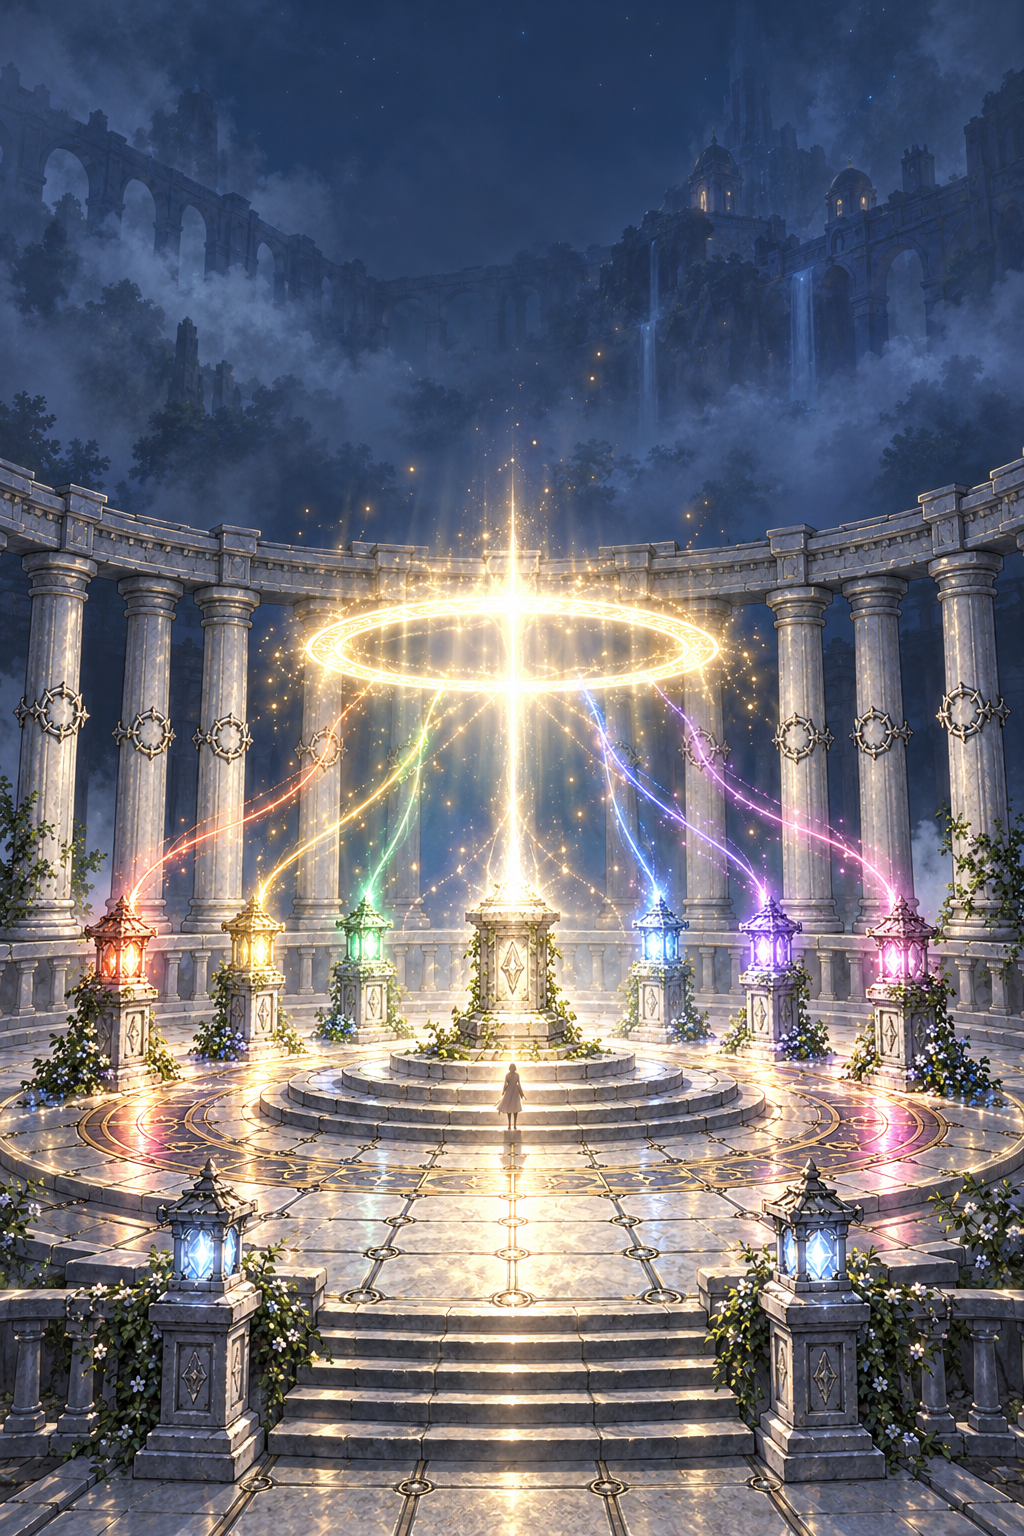
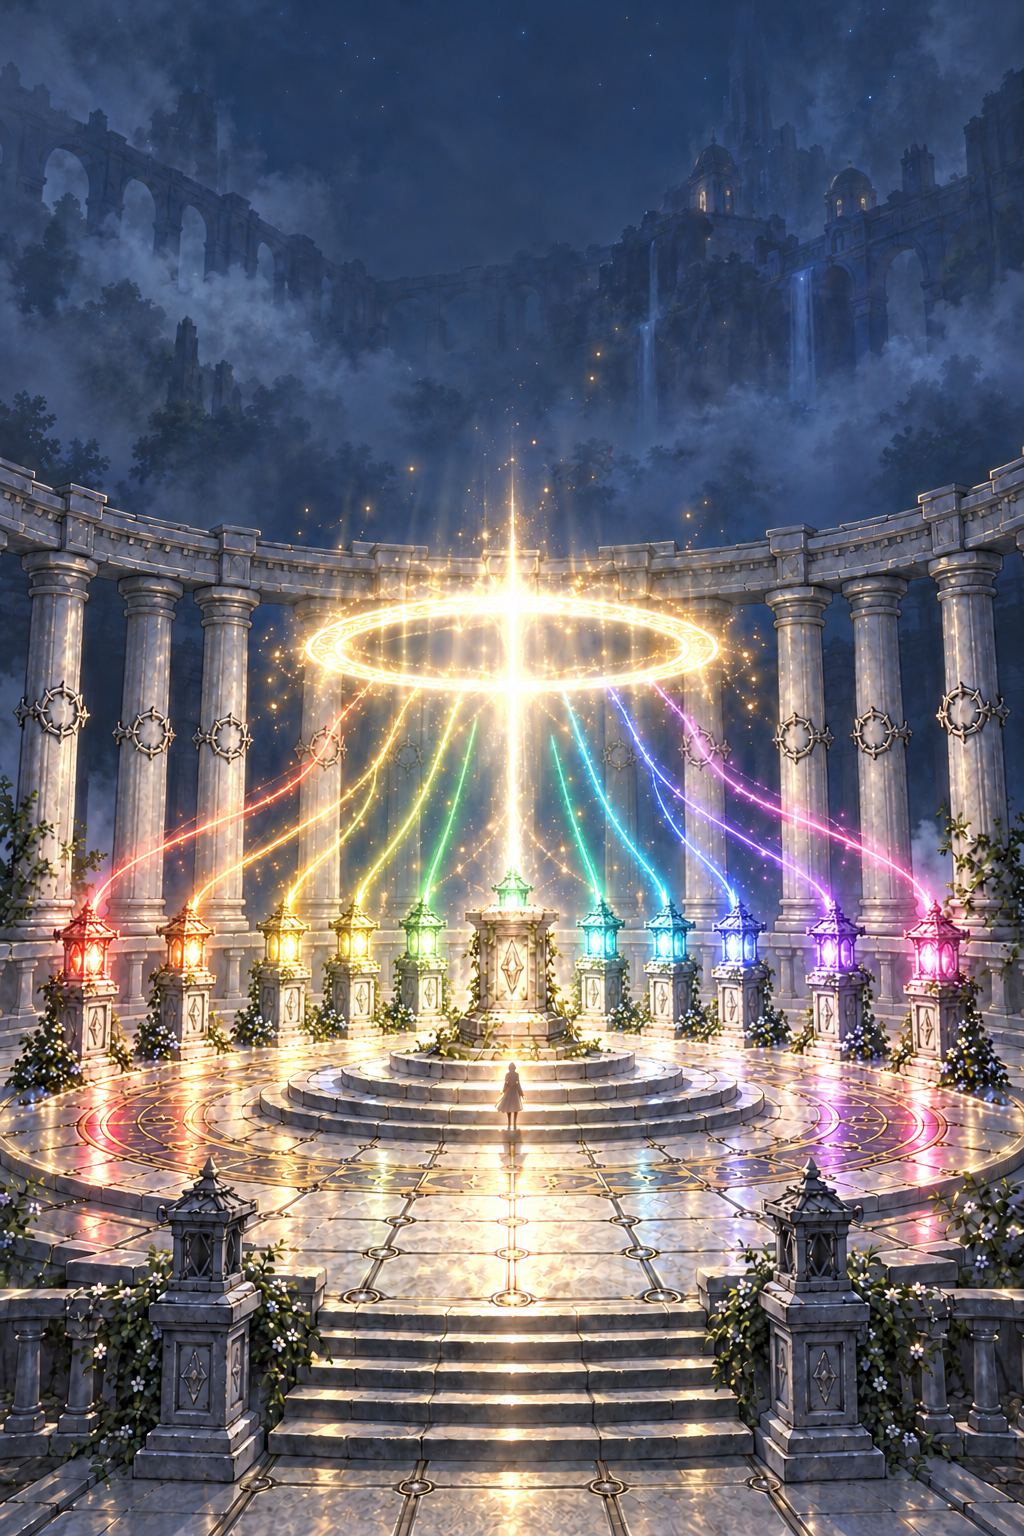
T R の検品の小さな直し・祭壇の挿絵の差しかえ
- 受付の出られない理由は1行に1つ（「 / 」でつながない。英語も同じ）
- ベッドは「寝る」「セーブ」「やめる」（ロードはなくした：セーブはいつも自動・バックアップからの復元は設定の画面だけ）
- 祭壇の挿絵を灯籠 11 の版に差しかえ（前の版は story_09_altar_seal_v1_7lights.png として残す。まだゲームには入れない）

Claude-Session: https://claude.ai/code/session_01GPUK2w1c9YDsNTKSZLLxHv

diff --git a/src/ui/screens/worldScreen.ts b/src/ui/screens/worldScreen.ts
@@ -2634,7 +2634,10 @@ export class WorldView {
     if (old) old.replaceWith(datePlate(this.#store.displayCalendar));
   }
 
-  /** 家のベッド（2026-10-30 指示書 R2）：寝る（1か月進む）・セーブ（これまでのベッドの画面）・ロード（バックアップから復元のある設定の画面） */
+  /**
+   * 家のベッド（2026-10-30 指示書 R2・T3）：寝る（1か月進む）・セーブ（これまでのベッドの画面）・やめる。
+   * セーブはいつも自動なので、ベッドに読み込みは置かない（バックアップからの復元は設定の画面だけ。2026-10-30 ユーザー決定）
+   */
   #bedMenu(): void {
     this.#busy = true;
     this.#held = null;
@@ -2646,7 +2649,6 @@ export class WorldView {
       actions: [
         { label: t('calendar.bed.sleep'), primary: true, onTap: () => ((next = () => this.#confirmSleep()), handle.close()) },
         { label: t('calendar.bed.save'), onTap: () => ((next = () => this.#ctx.navigate('settings')), handle.close()) },
-        { label: t('calendar.bed.load'), onTap: () => ((next = () => this.#ctx.navigate('options')), handle.close()) },
         { label: t('common.cancel'), onTap: () => handle.close() },
       ],
       onClose: () => {

diff --git a/src/i18n/messages/screens.ts b/src/i18n/messages/screens.ts
@@ -396,7 +396,6 @@ export const SCREENS = {
   },
   'tournament.record': { ja: '参加{entries}回・優勝{wins}回', en: 'Entered {entries} · Won {wins}' },
   'tournament.recordClaimed': { ja: '参加{entries}回・優勝{wins}回（初回景品受取済）', en: 'Entered {entries} · Won {wins} (first-win prizes received)' },
-  'tournament.issueSeparator': { ja: ' / ', en: ' / ' },
   'tournament.clerk': { ja: '受付', en: 'Desk' },
   'tournament.welcome': { ja: '大会会場へようこそ。あなたのランクは {rank} です。', en: 'Welcome to the hall! Your rank is {rank}.' },
   'tournament.welcomeName': { ja: '{name}さん、大会会場へようこそ。ランクは {rank} です。', en: 'Welcome to the hall, {name}! Your rank is {rank}.' },

diff --git a/src/ui/screens/tournamentScreen.ts b/src/ui/screens/tournamentScreen.ts
@@ -207,7 +207,8 @@ export const tournamentScreen: ScreenDefinition = {
           class: 'tournament__record',
           text: tr(record.firstWinClaimed ? 'tournament.recordClaimed' : 'tournament.record', { entries: record.entries, wins: record.wins }),
         }),
-        check.ok ? null : h('p', { class: 'tournament__ng', text: check.reasons.join(tr('tournament.issueSeparator')) }),
+        // 出られない理由は1行に1つ（2026-10-30 指示書 T2。前は「 / 」でつないでいて、最後の1文字だけ次の行に落ちることがあった）
+        check.ok ? null : h('ul', { class: 'tournament__ng' }, ...check.reasons.map((r) => h('li', { text: r }))),
         join,
       );
     };

diff --git a/src/data/maps.ts b/src/data/maps.ts
@@ -72,7 +72,7 @@ export type InteractAction =
   | 'researcher'
   /** 大会会場の左の壁の板：総当たりの対戦表を見る（受付と同じ表） */
   | 'leagueBoard'
-  /** 家のベッド：寝る（1か月進む）・セーブ・ロード（2026-10-30 指示書 R2） */
+  /** 家のベッド：寝る（1か月進む）・セーブ・やめる（2026-10-30 指示書 R2・T3） */
   | 'bed'
   /** 管理局の掲示板：大会のお知らせ（公式戦・チーム戦の月と出場の条件。2026-10-30 指示書 R2） */
   | 'noticeBoard'

diff --git a/src/ui/styles/screens.css b/src/ui/styles/screens.css
@@ -984,8 +984,25 @@ span.deck__item-name {
 }
 
 .tournament__ng {
+  margin: 0;
+  padding: 0;
+  list-style: none;
   font-size: 12px;
   color: #ff8a9a;
+}
+
+/* 1行に1つ。頭に「・」。折り返すときは2行目を字の頭にそろえ、1文字だけ次の行に落ちないように（2026-10-30 指示書 T2） */
+.tournament__ng li {
+  position: relative;
+  padding-left: 1em;
+  line-break: strict;
+  text-wrap: pretty;
+}
+
+.tournament__ng li::before {
+  content: '・';
+  position: absolute;
+  left: 0;
 }
 
 .tournament__bracket {

diff --git a/src/i18n/messages/calendar.ts b/src/i18n/messages/calendar.ts
@@ -27,7 +27,6 @@ export const CALENDAR = {
   'calendar.bed.title': { ja: 'ベッド', en: 'Bed' },
   'calendar.bed.sleep': { ja: '寝る', en: 'Sleep' },
   'calendar.bed.save': { ja: 'セーブ', en: 'Save' },
-  'calendar.bed.load': { ja: 'ロード', en: 'Load' },
   'calendar.bed.sleepConfirm': { ja: '1か月休みますか？', en: 'Rest for a month?' },
   'calendar.bed.morning': { ja: 'よく眠った。\n{date}の朝だ。', en: 'You slept well.\nIt is morning, {date}.' },
 

diff --git a/src/ui/styles/calendar.css b/src/ui/styles/calendar.css
@@ -165,7 +165,7 @@
   opacity: 0;
 }
 
-/* ===== ベッドのコマンド（寝る・セーブ・ロード） ===== */
+/* ===== ベッドのコマンド（寝る・セーブ・やめる） ===== */
 .bed-menu .modal__actions {
   flex-direction: column;
 }

diff --git a/docs/calendar-r-20261030.md b/docs/calendar-r-20261030.md
@@ -23,9 +23,8 @@
     月が変わる演出を出すまでは前の月のまま（`GameStore.displayCalendar`）
   - 月が変わるとき：月の帯に「5月」（約1.5秒・タップで早送り）。3・6・9・12月は先に季節の街の挿絵を画面いっぱいに出してから帯（`playMonthChange`）。
     ダンジョンから戻ったときは、戻ったお知らせのあと。大会は景品のお知らせのあと（受付の画面の上）
-  - ベッド：「寝る」「セーブ」「ロード」「やめる」。寝る →「1か月休みますか？ はい／いいえ」→ 夜の挿絵 → 暗転 → 月の帯 → 家の中で朝（「よく眠った。」）。体力などは変わらない
+  - ベッド：「寝る」「セーブ」「やめる」（2026-10-30 指示書 T3 で「ロード」をなくした：セーブはいつも自動・バックアップからの復元は設定の画面だけ）。寝る →「1か月休みますか？ はい／いいえ」→ 夜の挿絵 → 暗転 → 月の帯 → 家の中で朝（「よく眠った。」）。体力などは変わらない
     - **セーブ＝これまでのベッドの画面**（記録の板・セーブのボタン・設定・タイトルへ・セーブを消す）。「寝る」とまぎれないよう、ボタンの字を「休む（セーブする）」から「セーブする」に
-    - **ロード＝設定の画面**（「バックアップから復元（読み込み）」がある所）。セーブはいつも自動なので、読み込みはバックアップのファイルから、と考えた（ちがっていたら直す）
   - 大会：公式戦は 3・6・9月だけ。ほかの月は受付が「次の公式戦は ○月です」、12月は「12月はチーム戦の月です」と言って受け付けない（参加のボタンは押せない・理由を赤い字で）。
     出場の条件に「そのランクで開いているダンジョンのボスをすべて倒していること」（`RANK_BOSS_DUNGEONS`。新しいダンジョンはそのランクの一覧に足すだけ）。足りないと「○○のボスをまだ倒していません」
   - 管理局の掲示板（`src/ui/components/noticeBoard.ts`）：「大会のお知らせ」。紙2枚（3・6・9月 公式戦＝いまのランクの大会と条件／12月 チーム戦＝条件 C ランク・霧の廃坑）。

diff --git a/docs/handoff.md b/docs/handoff.md
@@ -1,10 +1,17 @@
-# 引き継ぎメモ（2026-10-30：S 街の直しまで・次のセッションへの引き継ぎ用）
+# 引き継ぎメモ（2026-10-30：T 小さな直しまで・次のセッションへの引き継ぎ用）
 
 新しいセッションで読むのは `CLAUDE.md` とこのファイルだけ。他の資料は必要になったときに1つずつ読む。
 
 ## 0. 次のセッションへ
 
-### まず読む：いまの状態（2026-10-30 S のあと）
+### まず読む：いまの状態（2026-10-30 T のあと）
+
+- **公開中：`main`（T まで）**。**セーブ version 29**。テスト 894件。**R は合格（T の検品）。S・T の報告の返事待ち**
+- T：受付の出られない理由は1行に1つ（`tournamentScreen.ts`・`.tournament__ng li`）・ベッドは「寝る」「セーブ」「やめる」（ロードはなくした。ユーザー決定）・
+  祭壇の挿絵を灯籠 11 の版に差しかえ（`design-parts/story-stills-20261030/story_09_altar_seal.png`。前の版は `_v1_7lights.png`。まだゲームには入れない）
+- 写真のこつ：公開ページ・街の写真は暗転の途中を撮らないよう `WAIT=8000`（`calendar_shot.cjs`）
+
+### その前（2026-10-30 S のあと）
 
 - **公開中：`main`（S まで）**。**セーブ version 29**。テスト 894件。**R・S の報告の返事待ち**
 - S（記録 `docs/townfix-s-20261030.md`）：iPhone の試遊の直し。カードショップの名札（人のとなりへ）・噴水の水（上の受け皿から）・高台の石垣と北と南の城壁（上下のふちを水平に・柱の間かくをそろえる）・

diff --git a/design-parts/story-stills-20261030/README.md b/design-parts/story-stills-20261030/README.md
@@ -15,7 +15,8 @@ contact_sheet_old_02_06.jpg は前の ZIP の一覧（02・06 は前の版が写
 | story_06_rescue.png | 霧の廃坑でシエナを助ける（直した版） | シエナを助けたとき |
 | story_07_team_december.png | 12月のチーム戦（雪の会場） | 12月のチーム戦 |
 | story_08_archive.png | 忘れられた書庫の3人 | 忘れられた書庫 |
-| story_09_altar_seal.png | 祭壇の封印 | 封印の場面 |
+| story_09_altar_seal.png | 祭壇の封印。灯籠 11（左5・真ん中1・右5）。封印 11 に合わせた版（2026-10-30 指示書 T4 で差しかえ。届いたファイル名は story_09_altar_seal_v2.png） | 封印の場面 |
+| story_09_altar_seal_v1_7lights.png | 祭壇の封印の前の版（灯籠 7。封印が 7 だったころ）。使わない・残しておくだけ | 使わない |
 | story_10_epilogue.png | 机の上の石板（エピローグ） | 物語の終わり |
 
 ## 覚え書き（あとで使うとき）
